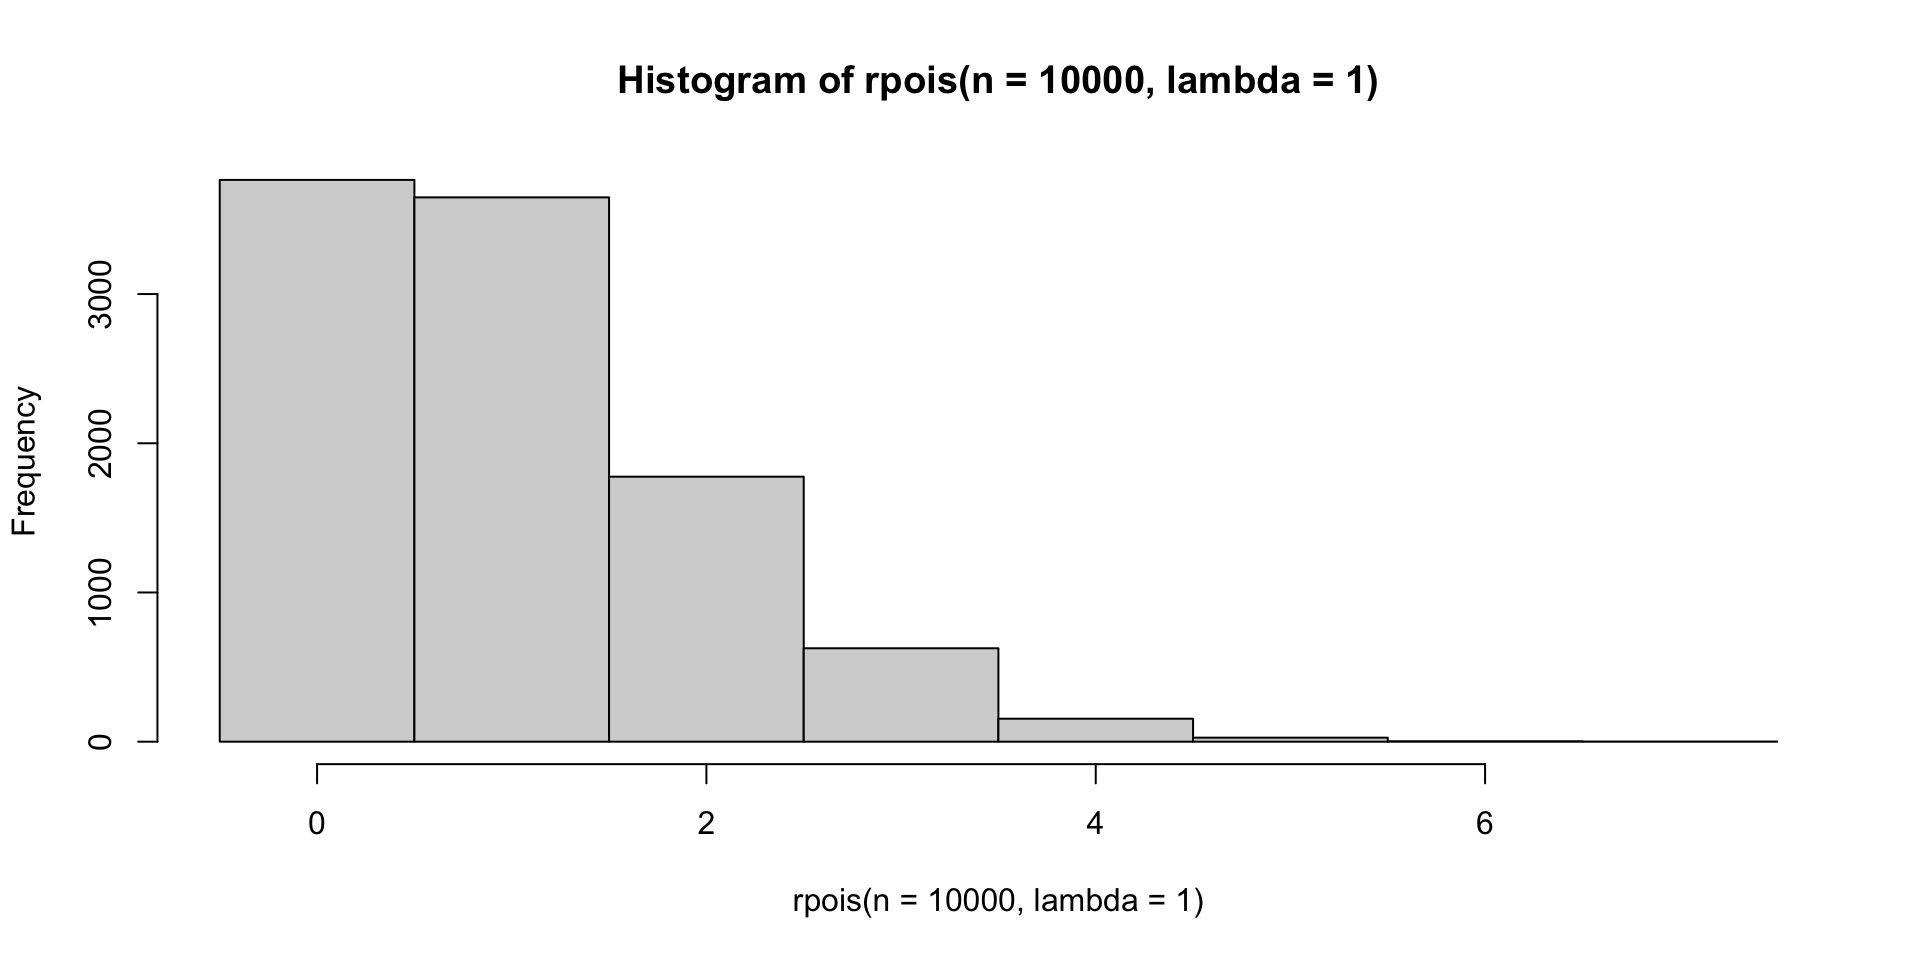
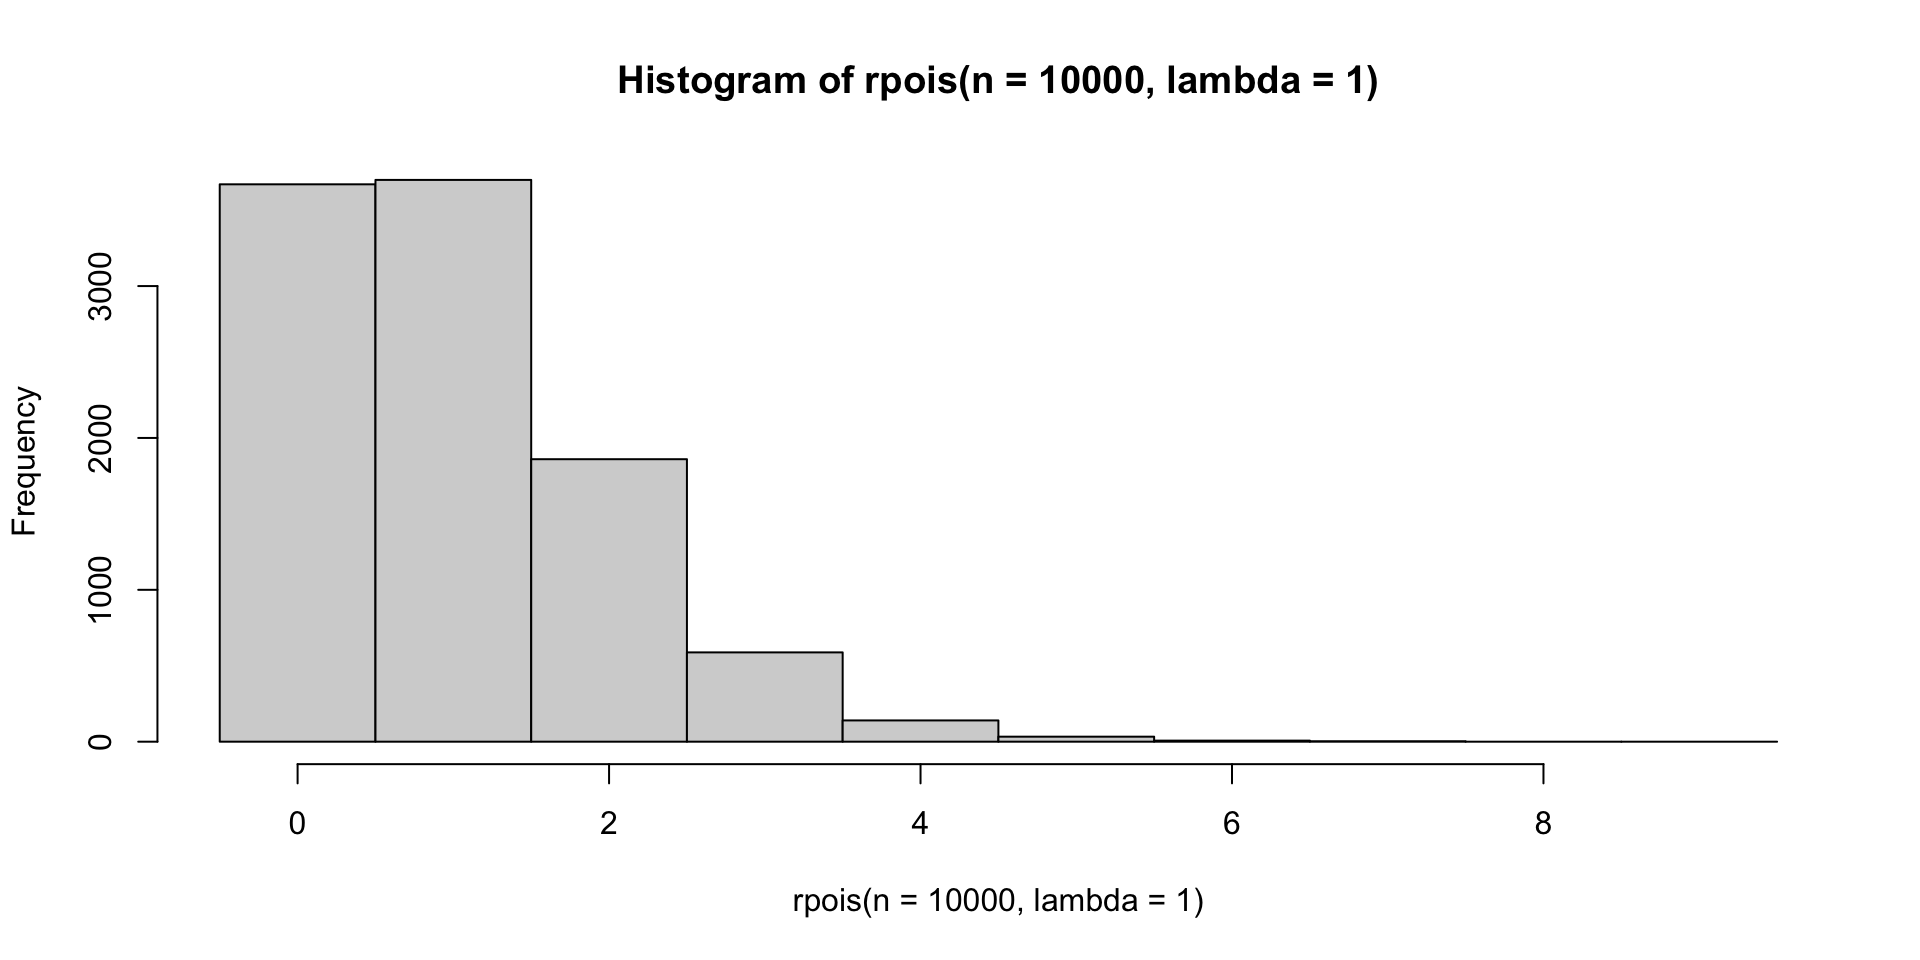
typo plus more sims

diff --git a/index.html b/index.html
@@ -473,7 +473,7 @@ Brian O’Meara
 <span id="cb1-2"><a href="#cb1-2"></a>p0<span class="ot">=</span><span class="dv">1</span><span class="sc">/</span>Ne</span>
 <span id="cb1-3"><a href="#cb1-3"></a>s<span class="ot">=</span><span class="fl">0.05</span></span>
 <span id="cb1-4"><a href="#cb1-4"></a><span class="fu">par</span>(<span class="at">mfcol=</span><span class="fu">c</span>(<span class="dv">1</span>,<span class="dv">1</span>))</span>
-<span id="cb1-5"><a href="#cb1-5"></a>learnPopGen<span class="sc">::</span><span class="fu">drift.selection</span>(<span class="at">w=</span><span class="fu">c</span>(<span class="dv">1</span><span class="sc">+</span>s, <span class="dv">1</span>, <span class="dv">1</span><span class="sc">-</span>s), <span class="at">Ne=</span>Ne, <span class="at">p0=</span>p0)</span></code><button title="Copy to Clipboard" class="code-copy-button"><i class="bi"></i></button></pre></div>
+<span id="cb1-5"><a href="#cb1-5"></a>learnPopGen<span class="sc">::</span><span class="fu">drift.selection</span>(<span class="at">w=</span><span class="fu">c</span>(<span class="dv">1</span><span class="sc">+</span>s, <span class="dv">1</span>, <span class="dv">1</span><span class="sc">-</span>s), <span class="at">Ne=</span>Ne, <span class="at">p0=</span>p0, <span class="at">nrep=</span><span class="dv">50</span>)</span></code><button title="Copy to Clipboard" class="code-copy-button"><i class="bi"></i></button></pre></div>
 
 </div>
 <img data-src="index_files/figure-revealjs/unnamed-chunk-3-1.png" width="960" class="r-stretch"></section>
@@ -526,7 +526,7 @@ Brian O’Meara
 <li class="fragment"><p>What is “putatively neutral”?</p></li>
 <li class="fragment"><p>“Mode of inheritance effects”?</p></li>
 <li class="fragment"><p>Can <span class="math inline">\(N_E\)</span> be bigger than census size?</p></li>
-<li class="fragment"><p>“Sewall-Wright” describes very few populations. Why do we care about it, then?</p></li>
+<li class="fragment"><p>“Wright-Fisher” describes very few populations. Why do we care about it, then?</p></li>
 <li class="fragment"><p>Fast timescale approximation? Why? When?</p></li>
 <li class="fragment"><p>What effect does extinction of demes in metapopulation have on drift?</p></li>
 </ul>
